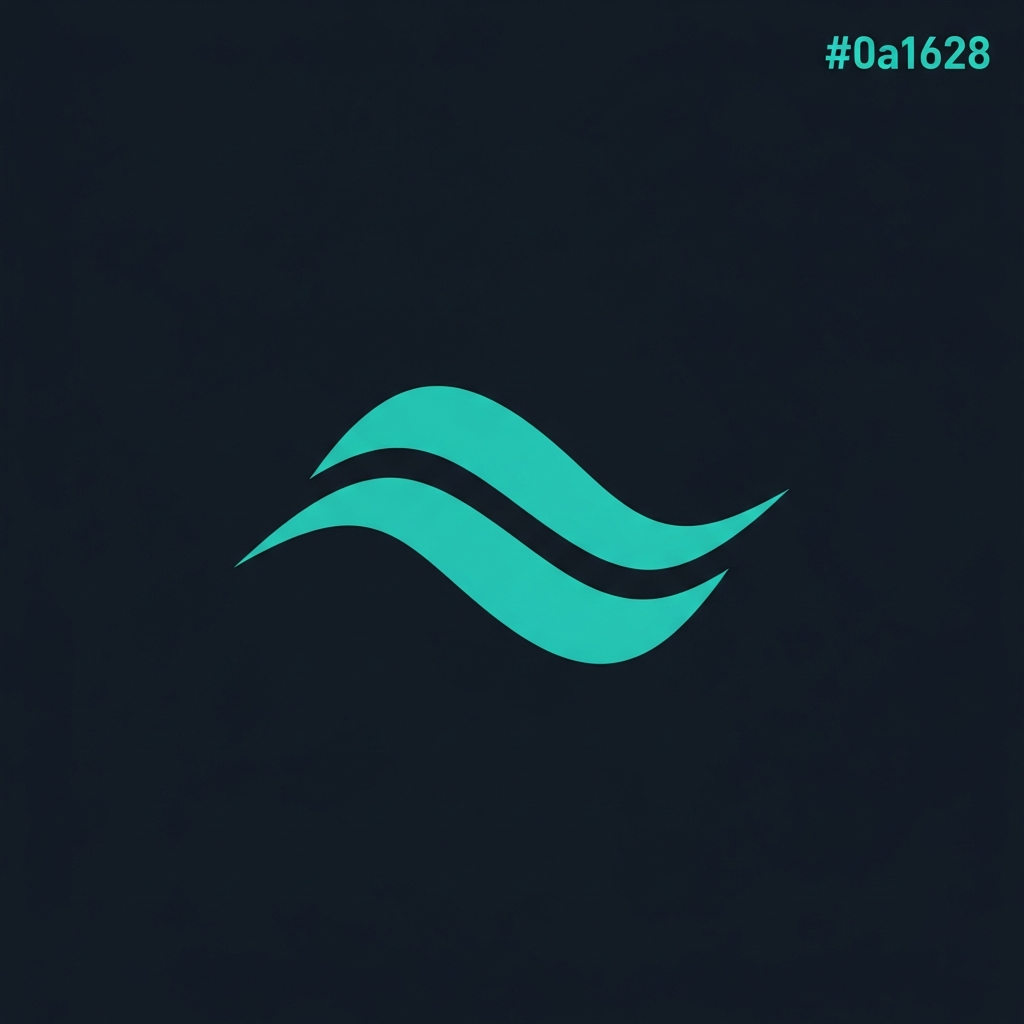
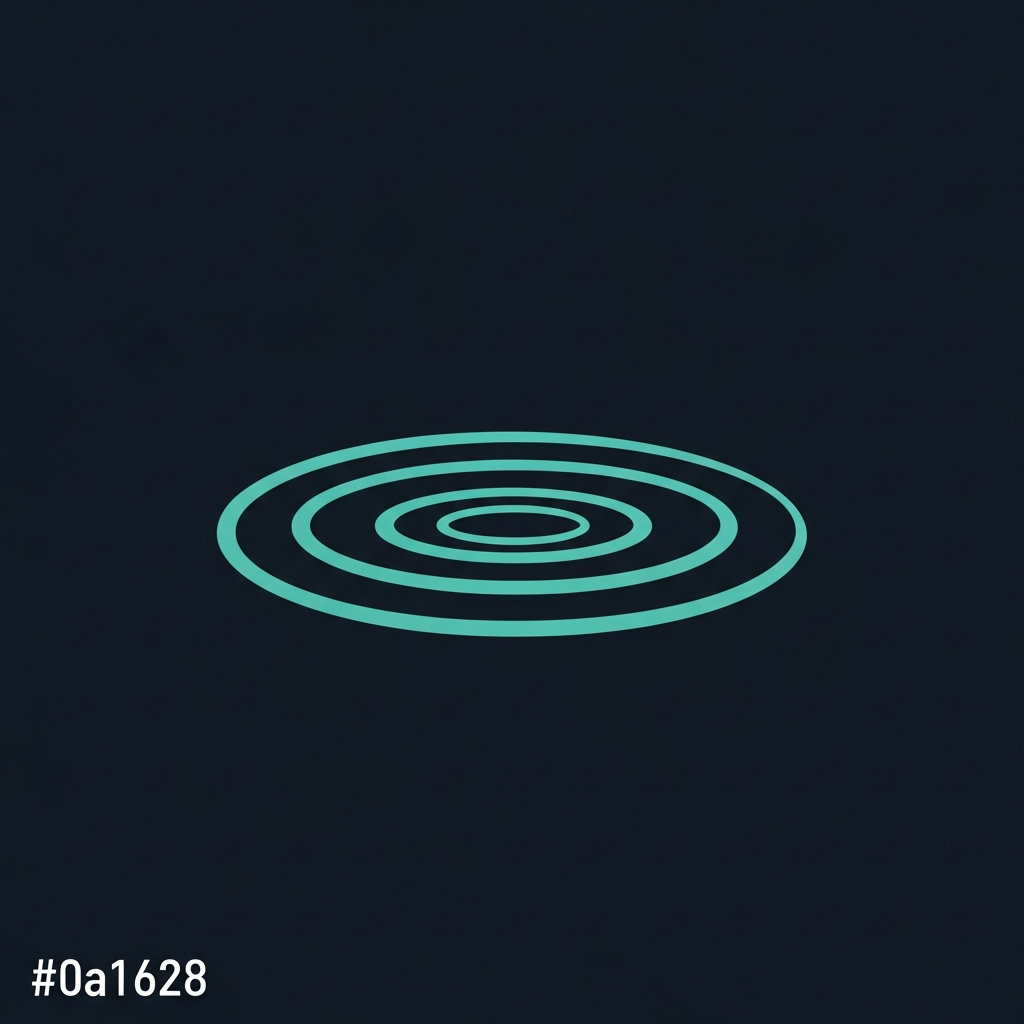
Improve UI design and color scheme for a minimal aesthetic
Refactor CSS variables for a dark blue and black color scheme, update app icon and logo, simplify the landing page, and adjust UI elements for better readability and mobile overflow.

Replit-Commit-Author: Agent
Replit-Commit-Session-Id: 5225d2c3-81af-4654-999a-0d678c7d0fa1
Replit-Commit-Checkpoint-Type: full_checkpoint
Replit-Commit-Event-Id: 47a15cfe-e4c8-42fb-baa7-7eff8969a233
Replit-Commit-Screenshot-Url: https://storage.googleapis.com/screenshot-production-us-central1/59220537-3b3a-4e91-8873-254fec427632/5225d2c3-81af-4654-999a-0d678c7d0fa1/8wtBFKA
Replit-Helium-Checkpoint-Created: true

Changed region(s): [[0.1875, 0.375, 0.8125, 0.6562], [0.8125, 0.0312, 0.9688, 0.0938], [0.0312, 0.9375, 0.2188, 0.9688]]

diff --git a/client/src/pages/landing.tsx b/client/src/pages/landing.tsx
@@ -1,39 +1,8 @@
 import { Link } from "wouter";
-import { Card, CardContent } from "@/components/ui/card";
 import { Button } from "@/components/ui/button";
 import { usePageSEO } from "@/lib/seo";
 import logoPath from "@/assets/images/logo.png";
-import {
-  BarChart3,
-  Shield,
-  Zap,
-  ArrowRight,
-  Radio,
-  Bot,
-} from "lucide-react";
-
-const features = [
-  {
-    icon: Radio,
-    title: "Market Intelligence",
-    description: "Real-time Pyth Oracle data with blended price feeds for accurate SUI-USDC market analysis.",
-  },
-  {
-    icon: Bot,
-    title: "Dual-Agent Architecture",
-    description: "Execution agents paired with signal sub-agents for autonomous momentum-based trading.",
-  },
-  {
-    icon: Shield,
-    title: "On-Chain Verification",
-    description: "Every trade and reward verified on the SUI blockchain with transaction digest tracking.",
-  },
-  {
-    icon: Zap,
-    title: "Automated Trading",
-    description: "Momentum strategy signals using RSI, Connors RSI, EMA, DEMA, and TEMA indicators.",
-  },
-];
+import { ArrowRight } from "lucide-react";
 
 export default function Landing() {
   usePageSEO({
@@ -42,88 +11,45 @@ export default function Landing() {
   });
 
   return (
-    <div className="min-h-screen" data-testid="page-landing">
-      <div className="relative overflow-hidden">
-        <div className="absolute inset-0 bg-gradient-to-b from-black/80 via-black/60 to-background z-0" />
-        <div className="absolute inset-0 bg-gradient-to-br from-primary/10 via-transparent to-primary/5 z-0" />
+    <div className="min-h-screen flex flex-col items-center justify-center px-6" data-testid="page-landing">
+      <div className="absolute inset-0 bg-gradient-to-b from-black via-background to-background z-0" />
 
-        <div className="relative z-10 flex flex-col items-center justify-center text-center px-4 py-24 md:py-36">
-          <div className="flex items-center gap-3 mb-8" data-testid="hero-logo">
-            <img src={logoPath} alt="Blue Water Agents" className="w-24 h-24 md:w-32 md:h-32 rounded-xl object-cover" />
-          </div>
-
-          <h1
-            className="text-3xl md:text-5xl font-bold tracking-tight text-white mb-4"
-            data-testid="hero-title"
-          >
-            Blue Water Agents
-          </h1>
-
-          <p
-            className="text-base md:text-lg text-white/70 max-w-xl mb-2"
-            data-testid="hero-subtitle"
-          >
-            AI-powered trading agents for SUI-USDC perpetual markets with real-time signal generation and on-chain verification.
-          </p>
-
-          <p
-            className="text-xs text-white/50 font-mono mb-8"
-            data-testid="hero-credits"
-          >
-            Developed by lifeguard.sui | Powered by Blue Water Digital
-          </p>
-
-          <Link href="/dashboard">
-            <Button size="lg" data-testid="button-launch-app">
-              Launch App
-              <ArrowRight className="h-4 w-4 ml-2" />
-            </Button>
-          </Link>
-        </div>
-      </div>
-
-      <div className="px-4 md:px-8 py-12 md:py-16 max-w-5xl mx-auto">
-        <div className="text-center mb-10">
-          <h2 className="text-xl md:text-2xl font-bold tracking-tight mb-2" data-testid="features-heading">
-            Built for Autonomous Trading
-          </h2>
-          <p className="text-sm text-muted-foreground">
-            Everything you need to deploy and manage AI trading agents on the SUI network.
-          </p>
+      <div className="relative z-10 flex flex-col items-center text-center max-w-md mx-auto">
+        <div className="mb-10" data-testid="hero-logo">
+          <img
+            src={logoPath}
+            alt="Blue Water Agents"
+            className="w-28 h-28 rounded-2xl object-cover opacity-90"
+          />
         </div>
 
-        <div className="grid grid-cols-1 md:grid-cols-2 gap-4">
-          {features.map((feature, i) => (
-            <Card key={feature.title} data-testid={`feature-card-${i}`}>
-              <CardContent className="pt-6 pb-5 flex gap-4">
-                <div className="w-10 h-10 rounded-md bg-primary/15 flex items-center justify-center shrink-0">
-                  <feature.icon className="h-5 w-5 text-primary" />
-                </div>
-                <div>
-                  <h3 className="text-sm font-semibold mb-1" data-testid={`feature-title-${i}`}>
-                    {feature.title}
-                  </h3>
-                  <p className="text-xs text-muted-foreground leading-relaxed">
-                    {feature.description}
-                  </p>
-                </div>
-              </CardContent>
-            </Card>
-          ))}
-        </div>
+        <h1
+          className="text-2xl md:text-4xl font-semibold tracking-tight text-foreground mb-3"
+          data-testid="hero-title"
+        >
+          Blue Water Agents
+        </h1>
 
-        <div className="text-center mt-12">
-          <div className="flex items-center justify-center gap-2 mb-4">
-            <BarChart3 className="h-4 w-4 text-muted-foreground" />
-            <span className="text-xs text-muted-foreground font-mono">SUI-USDC | Momentum Strategy</span>
-          </div>
-          <Link href="/dashboard">
-            <Button variant="outline" data-testid="button-launch-app-footer">
-              Get Started
-              <ArrowRight className="h-4 w-4 ml-2" />
-            </Button>
-          </Link>
-        </div>
+        <p
+          className="text-sm text-muted-foreground leading-relaxed mb-3 max-w-xs"
+          data-testid="hero-subtitle"
+        >
+          AI-powered trading agents for SUI-USDC perpetual markets with real-time signal generation and on-chain verification.
+        </p>
+
+        <p
+          className="text-[11px] text-muted-foreground font-mono mb-10"
+          data-testid="hero-credits"
+        >
+          lifeguard.sui | Blue Water Digital
+        </p>
+
+        <Link href="/dashboard">
+          <Button size="lg" className="px-8" data-testid="button-launch-app">
+            Launch App
+            <ArrowRight className="h-4 w-4 ml-2" />
+          </Button>
+        </Link>
       </div>
     </div>
   );

diff --git a/client/src/pages/market-dashboard.tsx b/client/src/pages/market-dashboard.tsx
@@ -330,53 +330,21 @@ function SignalReasoningHero() {
             </div>
           </CardHeader>
           <CardContent>
-            <div className="grid grid-cols-2 sm:grid-cols-3 gap-3">
-              <div className="space-y-0.5">
-                <p className="text-[10px] text-muted-foreground">RSI(14)</p>
-                <p className={`text-sm font-mono font-bold ${reasoning.indicators.rsi > 70 ? "text-red-500" : reasoning.indicators.rsi < 30 ? "text-emerald-500" : "text-foreground"}`}>
-                  {reasoning.indicators.rsi.toFixed(2)}
-                </p>
-                <p className="text-[9px] text-muted-foreground/60">
-                  {reasoning.indicators.rsi > 70 ? "Overbought" : reasoning.indicators.rsi < 30 ? "Oversold" : "Neutral zone"}
-                </p>
-              </div>
-              <div className="space-y-0.5">
-                <p className="text-[10px] text-muted-foreground">Connors RSI</p>
-                <p className={`text-sm font-mono font-bold ${reasoning.indicators.connorsRsi > 70 ? "text-red-500" : reasoning.indicators.connorsRsi < 30 ? "text-emerald-500" : "text-foreground"}`}>
-                  {reasoning.indicators.connorsRsi.toFixed(2)}
-                </p>
-                <p className="text-[9px] text-muted-foreground/60">
-                  {reasoning.indicators.connorsRsi > 70 ? "Overbought" : reasoning.indicators.connorsRsi < 30 ? "Oversold" : "Neutral zone"}
-                </p>
-              </div>
-              <div className="space-y-0.5">
-                <p className="text-[10px] text-muted-foreground">EMA(20)</p>
-                <p className="text-sm font-mono font-bold">${reasoning.indicators.ema20.toFixed(4)}</p>
-                <p className="text-[9px] text-muted-foreground/60">Moving average</p>
-              </div>
-              <div className="space-y-0.5">
-                <p className="text-[10px] text-muted-foreground">DEMA(20)</p>
-                <p className="text-sm font-mono font-bold">${reasoning.indicators.dema20.toFixed(4)}</p>
-                <p className="text-[9px] text-muted-foreground/60">Double EMA</p>
-              </div>
-              <div className="space-y-0.5">
-                <p className="text-[10px] text-muted-foreground">TEMA(20)</p>
-                <p className="text-sm font-mono font-bold">${reasoning.indicators.tema20.toFixed(4)}</p>
-                <p className="text-[9px] text-muted-foreground/60">Triple EMA</p>
-              </div>
-              <div className="space-y-0.5">
-                <p className="text-[10px] text-muted-foreground">RSI Divergence</p>
-                <p className="text-sm font-mono font-bold">
-                  {reasoning.indicators.rsiDivergence.bullish ? (
-                    <span className="text-emerald-500">Bullish</span>
-                  ) : reasoning.indicators.rsiDivergence.bearish ? (
-                    <span className="text-red-500">Bearish</span>
-                  ) : (
-                    <span className="text-muted-foreground">None</span>
-                  )}
-                </p>
-                <p className="text-[9px] text-muted-foreground/60">Price vs RSI</p>
-              </div>
+            <div className="grid grid-cols-1 gap-1">
+              {[
+                { label: "RSI(14)", value: reasoning.indicators.rsi.toFixed(2), color: reasoning.indicators.rsi > 70 ? "text-red-500" : reasoning.indicators.rsi < 30 ? "text-emerald-500" : "" },
+                { label: "Connors RSI", value: reasoning.indicators.connorsRsi.toFixed(2), color: reasoning.indicators.connorsRsi > 70 ? "text-red-500" : reasoning.indicators.connorsRsi < 30 ? "text-emerald-500" : "" },
+                { label: "EMA(20)", value: `$${reasoning.indicators.ema20.toFixed(4)}`, color: "" },
+                { label: "DEMA(20)", value: `$${reasoning.indicators.dema20.toFixed(4)}`, color: "" },
+                { label: "TEMA(20)", value: `$${reasoning.indicators.tema20.toFixed(4)}`, color: "" },
+                { label: "RSI Divergence", value: reasoning.indicators.rsiDivergence.bullish ? "Bullish" : reasoning.indicators.rsiDivergence.bearish ? "Bearish" : "None", color: reasoning.indicators.rsiDivergence.bullish ? "text-emerald-500" : reasoning.indicators.rsiDivergence.bearish ? "text-red-500" : "text-muted-foreground" },
+                { label: "Volume 24h", value: `$${(reasoning.indicators.vol24h / 1e6).toFixed(1)}M`, color: "" },
+              ].map(({ label, value, color }) => (
+                <div key={label} className="flex items-center justify-between px-3 py-2 rounded bg-muted/30">
+                  <span className="text-[10px] text-muted-foreground uppercase font-medium">{label}</span>
+                  <span className={`text-sm font-mono font-bold ${color}`}>{value}</span>
+                </div>
+              ))}
             </div>
           </CardContent>
         </Card>
@@ -414,7 +382,7 @@ export default function MarketDashboard() {
   const currentPrice = livePrice?.blended ?? marketData?.price ?? 0;
 
   return (
-    <div className="p-4 md:p-6 space-y-4 max-w-3xl mx-auto" data-testid="page-market-dashboard">
+    <div className="p-3 md:p-6 space-y-4 max-w-3xl mx-auto" data-testid="page-market-dashboard">
       <div className="flex items-center justify-between gap-3 flex-wrap">
         <div className="flex items-center gap-3">
           <div>

diff --git a/client/src/index.css b/client/src/index.css
@@ -89,46 +89,46 @@
 }
 
 .dark {
-  --button-outline: rgba(255,255,255, .10);
-  --badge-outline: rgba(255,255,255, .05);
+  --button-outline: rgba(255,255,255, .08);
+  --badge-outline: rgba(255,255,255, .04);
   --opaque-button-border-intensity: 9;
-  --elevate-1: rgba(255,255,255, .04);
-  --elevate-2: rgba(255,255,255, .09);
-  --background: 222 30% 8%;
-  --foreground: 210 20% 92%;
-  --border: 222 25% 16%;
-  --card: 222 28% 11%;
-  --card-foreground: 210 20% 92%;
-  --card-border: 222 25% 15%;
-  --sidebar: 222 35% 6%;
-  --sidebar-foreground: 210 20% 90%;
-  --sidebar-border: 222 30% 14%;
-  --sidebar-primary: 173 80% 40%;
-  --sidebar-primary-foreground: 173 80% 98%;
-  --sidebar-accent: 222 30% 14%;
-  --sidebar-accent-foreground: 210 20% 90%;
-  --sidebar-ring: 173 80% 40%;
-  --popover: 222 28% 13%;
-  --popover-foreground: 210 20% 92%;
-  --popover-border: 222 25% 18%;
-  --primary: 173 80% 40%;
-  --primary-foreground: 173 80% 98%;
-  --secondary: 222 20% 18%;
-  --secondary-foreground: 210 20% 88%;
-  --muted: 222 20% 16%;
-  --muted-foreground: 210 15% 55%;
-  --accent: 222 22% 14%;
-  --accent-foreground: 210 20% 90%;
-  --destructive: 0 85% 48%;
-  --destructive-foreground: 0 85% 98%;
-  --input: 222 20% 25%;
-  --ring: 173 80% 40%;
-  --chart-1: 173 80% 50%;
-  --chart-2: 199 85% 55%;
-  --chart-3: 142 70% 55%;
-  --chart-4: 38 92% 60%;
-  --chart-5: 0 85% 60%;
-  --chart-6: 280 70% 60%;
+  --elevate-1: rgba(255,255,255, .03);
+  --elevate-2: rgba(255,255,255, .07);
+  --background: 222 40% 5%;
+  --foreground: 210 15% 90%;
+  --border: 222 30% 12%;
+  --card: 222 35% 7%;
+  --card-foreground: 210 15% 90%;
+  --card-border: 222 30% 11%;
+  --sidebar: 222 45% 4%;
+  --sidebar-foreground: 210 15% 85%;
+  --sidebar-border: 222 35% 10%;
+  --sidebar-primary: 173 70% 38%;
+  --sidebar-primary-foreground: 173 70% 95%;
+  --sidebar-accent: 222 35% 10%;
+  --sidebar-accent-foreground: 210 15% 85%;
+  --sidebar-ring: 173 70% 38%;
+  --popover: 222 38% 8%;
+  --popover-foreground: 210 15% 90%;
+  --popover-border: 222 30% 14%;
+  --primary: 173 70% 38%;
+  --primary-foreground: 173 70% 95%;
+  --secondary: 222 25% 12%;
+  --secondary-foreground: 210 15% 82%;
+  --muted: 222 25% 10%;
+  --muted-foreground: 210 12% 60%;
+  --accent: 222 28% 9%;
+  --accent-foreground: 210 15% 85%;
+  --destructive: 0 80% 45%;
+  --destructive-foreground: 0 80% 95%;
+  --input: 222 25% 18%;
+  --ring: 173 70% 38%;
+  --chart-1: 173 70% 45%;
+  --chart-2: 199 75% 50%;
+  --chart-3: 142 60% 50%;
+  --chart-4: 38 85% 55%;
+  --chart-5: 0 75% 55%;
+  --chart-6: 280 60% 55%;
   --shadow-2xs: 0px 2px 0px 0px hsl(0 0% 0% / 0.00);
   --shadow-xs: 0px 2px 0px 0px hsl(0 0% 0% / 0.00);
   --shadow-sm: 0px 2px 0px 0px hsl(0 0% 0% / 0.00), 0px 1px 2px -1px hsl(0 0% 0% / 0.00);
@@ -174,6 +174,11 @@
 
   body {
     @apply font-sans antialiased bg-background text-foreground;
+    overflow-x: hidden;
+  }
+
+  main {
+    overflow-x: hidden;
   }
 }
 

diff --git a/client/src/pages/my-agents.tsx b/client/src/pages/my-agents.tsx
@@ -304,11 +304,10 @@ function ThinkingProcess({ agentId, reasoning }: { agentId: string; reasoning: a
             <SignalIcon className="h-3 w-3" />
             Indicator Values
           </p>
-          <div className="grid grid-cols-2 gap-1.5">
+          <div className="grid grid-cols-1 gap-1">
             {Object.entries(reasoning.indicators).map(([key, val]: [string, any]) => {
               let displayVal: string;
-              let isNumeric = typeof val === "number";
-              if (isNumeric) {
+              if (typeof val === "number") {
                 displayVal = val.toFixed(2);
               } else if (val && typeof val === "object") {
                 if ("bullish" in val) {
@@ -324,9 +323,9 @@ function ThinkingProcess({ agentId, reasoning }: { agentId: string; reasoning: a
               const isBearish = displayVal === "Bearish" || displayVal === "down";
 
               return (
-                <div key={key} className="bg-muted/50 border border-border/30 rounded-lg p-2 flex items-center justify-between gap-1 overflow-hidden">
-                  <span className="text-[8px] text-muted-foreground uppercase font-medium truncate">{key}</span>
-                  <span className={`text-[11px] font-mono font-bold truncate ${
+                <div key={key} className="flex items-center justify-between px-3 py-2 rounded bg-muted/30">
+                  <span className="text-[10px] text-muted-foreground uppercase font-medium">{key}</span>
+                  <span className={`text-sm font-mono font-bold ${
                     isBullish ? "text-emerald-500" : isBearish ? "text-red-500" : ""
                   }`}>{displayVal}</span>
                 </div>
@@ -1818,7 +1817,7 @@ export default function MyAgents() {
   const selectedAgent = allAgents.find((a) => a.id === selectedAgentId);
 
   return (
-    <div className="p-4 md:p-6 space-y-4 max-w-3xl mx-auto" data-testid="page-my-agents">
+    <div className="p-3 md:p-6 space-y-4 max-w-3xl mx-auto overflow-x-hidden" data-testid="page-my-agents">
       {account?.address && <WalletSummaryPanel address={account.address} />}
 
       <div className="flex items-center justify-between gap-2 flex-wrap">

diff --git a/client/index.html b/client/index.html
@@ -7,7 +7,7 @@
     <link rel="icon" type="image/png" sizes="192x192" href="/icon-192.png" />
     <link rel="apple-touch-icon" sizes="180x180" href="/apple-touch-icon.png" />
     <link rel="manifest" href="/manifest.json" />
-    <meta name="theme-color" content="#33ccaa" />
+    <meta name="theme-color" content="#2db898" />
     <meta name="description" content="AI-powered trading agents for SUI perpetual futures. Deploy autonomous agents that trade SUI-PERP on Typus with verifiable on-chain execution." />
     <meta property="og:title" content="Blue Water Agents" />
     <meta property="og:description" content="AI-powered trading agents for SUI perpetual futures on Typus" />
